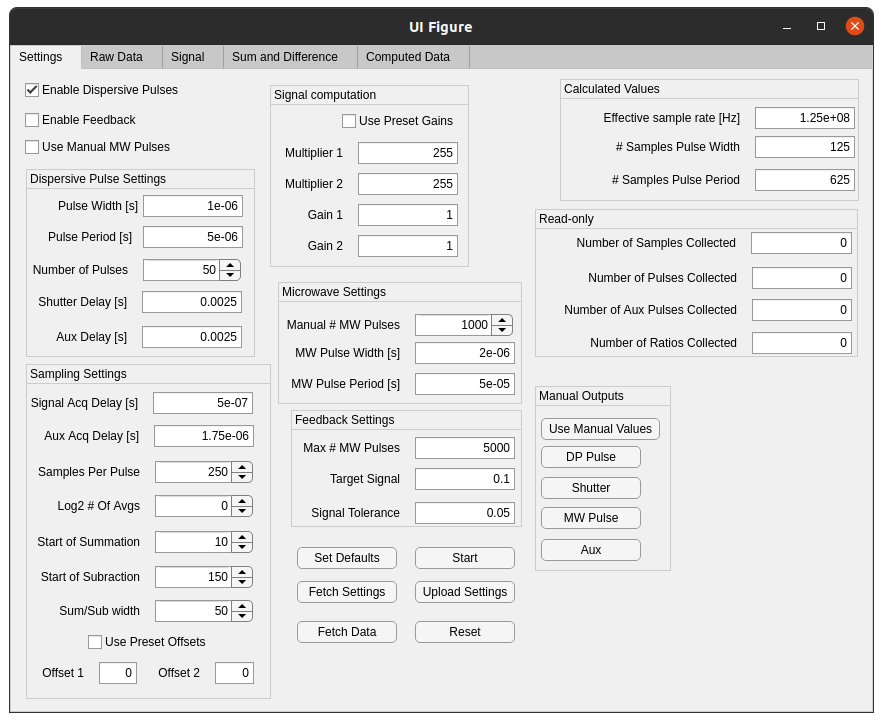
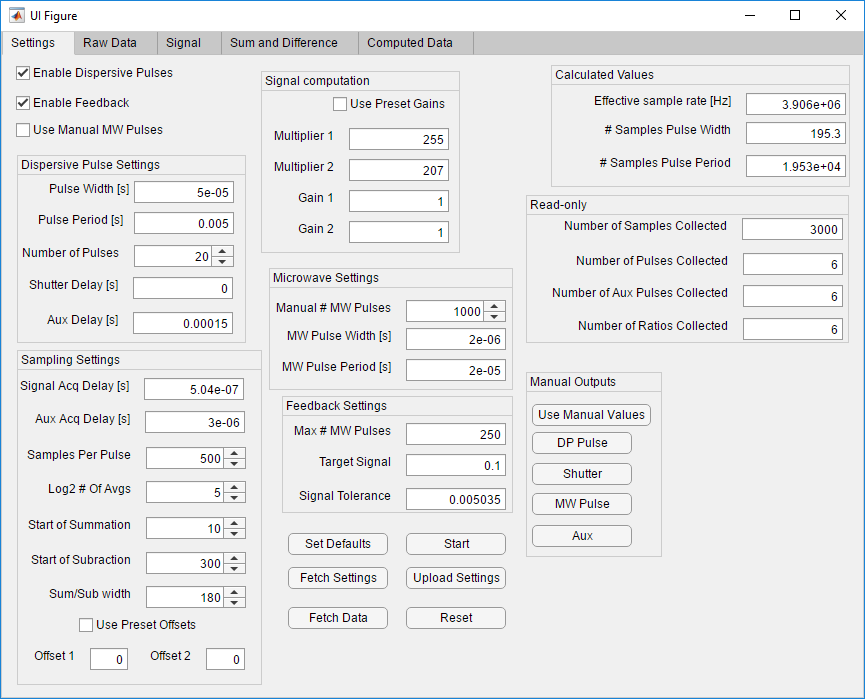
Added connection image and information

Changed region(s): [[0.0, 0.0, 1.0, 1.0], [0.3434, 0.7511, 0.437, 0.9013]]

diff --git a/README.md b/README.md
@@ -6,6 +6,37 @@ In ultracold atomic physics experiments, the number of atoms in a sample of atom
 
 This repository consists of the VHDL source code, as well as a TCL script, for building the FPGA architecture which acquires and processes the APD signals, pulses on the microwave control, and handles the feedback algorithm.  To make it easier to use, a suite of MATLAB classes has been developed that allows for control of the FPGA, and much of this control can be handled via a MATLAB GUI.  Communication between MATLAB and the FPGA is done through the TCP/IP protocol with a Python-based socket server running on the Red Pitaya.  Through this combination of MATLAB and Python, parameters related to the acquisition and feedback can be set, and data from the FPGA can retrieved.
 
+# Setting up the system
+
+The outputs from whatever photodetectors that are used should be connected to the ADC inputs using the SMA connectors on the board.  Depending on the expected voltage level you should set the jumpers to either LV (+/- 1 V) or HV (+/- 20 V).  Control of pulses is done via the expansion header "E1" which is the header next to the SMA connector labelled "OUT2".  Below is a pinout diagram, also found [at the Red Pitaya website](https://redpitaya.readthedocs.io/en/latest/developerGuide/125-14/extent.html).  
+
+![Red Pitaya pinout](images/red-pitaya-connections.png)
+
+Pins with the suffix P are outputs in this design, and pins with suffix N are inputs.  Connect input DIO0_N (on the linked diagram) to the external start trigger.  Connect output pins as follows
+  - DIO0_P: "signal" pulse out. I used this for the dispersive probing laser AOM
+  - DIO1_P: shutter signal out.  Connect this to a shutter driver (if using)
+  - DIO2_P: microwave pulse out.  Connect to an appropriate microwave switch
+  - DIO4_P: "auxiliary" pulse out. I connected this to the repump AOM via an external OR gate with the signal coming from the imaging controller FPGA.
+  
+With the connections done, you need to make sure that the FPGA has the write configuration.  Make sure that the Red Pitaya is connected to the lab network, and then connect to it using SSH (via PuTTY on Windows).  The address is rp-{MAC}.local or rp-{MAC}.px.otago.ac.nz where {MAC} is the last 6 hexadecimal characters in the Red Pitaya's MAC address.  It's written on the ethernet connector on the board.  User name is "root" and password is also "root".  Navigate to correct folder (should be obvious) and then load the configuration by running
+```
+cat system_wrapper.bit > /dev/xdevcfg
+```
+Once that is done, spin up the [Python socket server](#python-server) using
+```
+python3 appserver.py
+```
+You can stop the server by using a keyboard interrupt Cntrl-C.  
+
+To get the MATLAB graphical user interface running, make sure that you are in the "software" folder and then run the following commands in the command line
+```
+fb = DPFeedback;  %Creates a DPFeedback object in your workspace
+fb.setDefaults(); %Sets the default values so that the GUI doesn't throw an error on missing values
+AppFeedbackDP(fb);%Creates the GUI
+```
+
+If you want to skip to using the GUI without reading about the FPGA architecture and other software, click [here](#matlab-control) to read about the MATLAB classes used for control or [here](#matlab-gui) for the description of the graphical user interface.
+
 # Overview of FPGA behaviour
 
 The Red Pitaya (RP) expects to have its ADCs connected to the APDs measuring the ouput signals of the polarimeter.  Furthermore, the RP needs to have a rising-edge trigger signal connected to the first pin on the `ext_i` bus, and the output pulse signals associated with lasers L and L' (the so-called 'signal' and 'auxiliary' lines) need to be connected to their respective AOMs.  A shutter output signal is also available if needed.  Finally, there is a microwave output signal that needs to be connected to an appropriate microwave switch.
@@ -53,7 +84,7 @@ where the first line reads from memory address `0x40000000` and the second line 
 
 When reading from the block RAMs we want to read a lot of data in a short amount of time.  In this case we use a custom function `fetchData` (source `fetchData.c`) to read data from the FPGA.  This program uses two arguments: the number of samples to fetch and the RAM to fetch from.  The maximum number of samples to fetch is 16384.  The `fetchType` parameter, which is the second argument, has possible values [0,4] in integer steps, with 0 and 1 fetching raw data from the signal and auxiliary lines, respectively; values 2 and 3 fetching integrated data from the signal and auxiliary lines, respectively; and value 4 fetching the computed ratio.  The raw data is 16 bits internally in the FPGA so the two channels are concatenated into a single 32 bit data word.  The integrated data is 24 bits wide, so the two channels are interleaved as separate addresses in the block RAMs and retrieved as such.  The ratio data is 16 bits wide and thus is stored as one entry per address.
 
-## Communication with a remote computer
+## <a href="python-server"></a> Communication with a remote computer
 
 While the FPGA can be controlled via the command line while logged into the Red Pitaya using a shell or equivalent program such as PuTTY, it can be useful to control the device from a remote computer using a scripting language that has in-built data analysis and visualization capabilities such as Python or MATLAB.  To that end, a socket server has been implemented in Python that can read/write parameters to the device and fetch data.  The server can be started using the command
 ```
@@ -65,7 +96,7 @@ The server works via the class `Message` defined in `libserver.py` which handles
 
 Data is sent back to the client in the same form as it is received; namely, there is a 2 byte proto-header indicating the length of the following header information, followed by a message body.  The header has fields 'err', which is Boolean value indicating if there was an error; 'errMsg', which gives information about the error; and 'length', which is the length, in bytes, of the message body.  
 
-# Control via MATLAB
+# <a href="matlab-control"></a> Control via MATLAB
 
 A set of MATLAB classes exist to control the FPGA in addition to a MATLAB graphical user interface (GUI) for dealing with these classes.  There are four classes used for controlling the feedback design
 
@@ -110,7 +141,7 @@ where `signal` and `aux` are instances of `DPFeedbackData` which has properties 
 
 Important methods for the device are `upload()`, `fetch()`, `getRaw()`, `getProcessed()`, and `getRatio()`.  `upload()` uploads all current register values to the device, while `fetch()` retrieves all register values and converts them into parameter values.  `getRaw()` retrieves the raw ADC data from the device for both the signal and auxiliary lines.  `getProcessed()` retrieves the processed data for both signal and auxiliary lines, while `getRatio` retrieves the calculated ratio value from the device.
 
-# MATLAB Graphical User Interface
+# <a href="matlab-gui"></a> MATLAB Graphical User Interface
 
 A graphical user interface (GUI) was made to faciliate using the MATLAB classes.  I suggest invoking it by using the commands
 ```
@@ -120,7 +151,7 @@ AppFeedbackDP(fb);%Creates the GUI
 ```
 ![View of GUI](images/matlab-gui.png)
 
-The above image shows how the GUI looks when on the settings tab.  Other tabs (accessed at the top of the GUI) show the raw data, the processed data, and the ratio data.  Parameters can be entered in the relevant text fields, and the dispersive pulses, feedback, and/or manual microwvae pulses can be enabled/disabled using the checkboxes.  **Do not** use the "Signal Computation" settings as that was for a previous version of the feedback system and those functions are deprecated.  They have not been removed because of possible compatibility issues between difference MATLAB versions of their GUI editor.
+The above image shows how the GUI looks when on the settings tab, and the parameters are those that were used for feedback.  Other tabs (accessed at the top of the GUI) show the raw data, the processed data, and the ratio data.  Parameters can be entered in the relevant text fields, and the dispersive pulses, feedback, and/or manual microwvae pulses can be enabled/disabled using the checkboxes.  **Do not** use the "Signal Computation" settings as that was for a previous version of the feedback system and those functions are deprecated.  They have not been removed because of possible compatibility issues between difference MATLAB versions of their GUI editor.
 
 Once settings have been input, they can be uploaded to the device by clicking on the "Upload" button.  Similarly, current device settings can be retrieved using the "Fetch" button.  Data can be retrieved using the "Fetch Data" button; the device can be reset using "Reset"; and a start trigger can be sent using "Start".  
 
